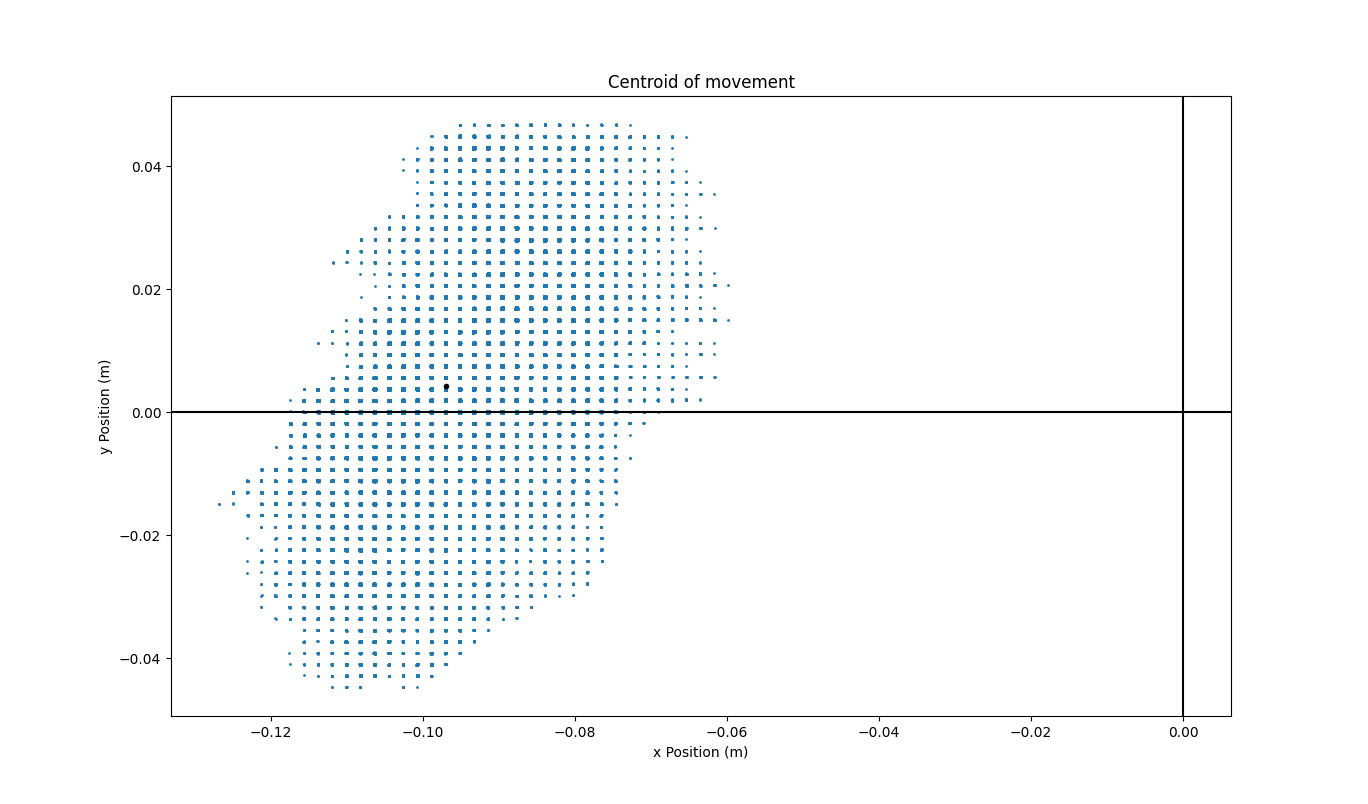
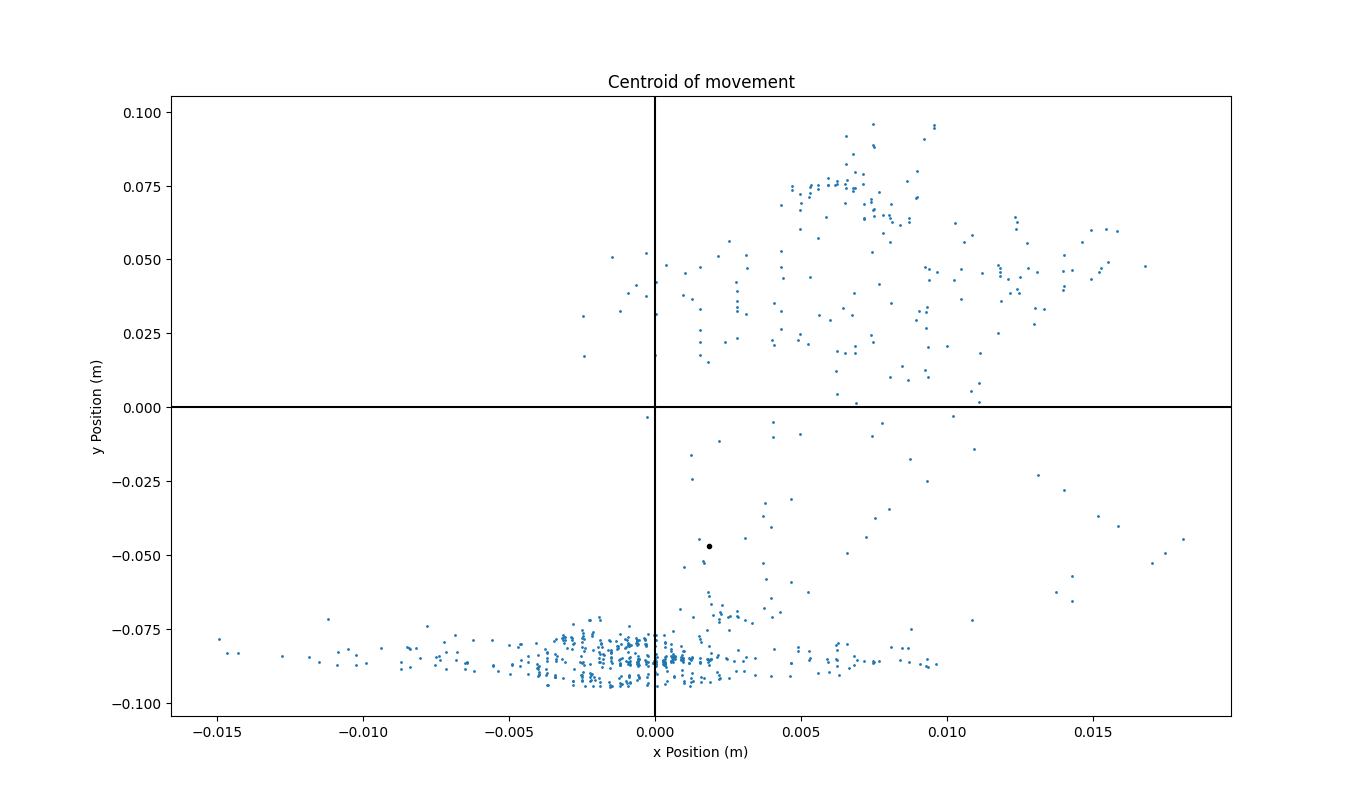
fix centroid

diff --git a/movement_metrics.py b/movement_metrics.py
@@ -178,15 +178,11 @@ def PlotCentroid(data, keypoints):
         
         selected = np_vals[:,:,start_iter]
         selected_vals.append(selected)
-    
+    #print(np.array(selected_vals).shape)
     selected_vals = np.stack(selected_vals, axis=2)
+    #print(selected_vals.shape)
     np_means_avg = np.mean(selected_vals, axis=2)
-    
-    z_x = np.abs(stats.zscore(np_means_avg[:,0]))
-    z_y = np.abs(stats.zscore(np_means_avg[:,1]))
-    select = [(a < 3) and (b < 3) for a, b in zip(z_x, z_y)]
-    vals_cleaned = np_vals[select,:,start_iter]
-
+    #print(np_means_avg.shape)
 
     scale = 1.0
     if video_pix_per_m > 0:
@@ -196,16 +192,27 @@ def PlotCentroid(data, keypoints):
     else:
         plt.xlabel("x Pixel Position")
         plt.ylabel("y Pixel Position")
-    shifted_x = [(x - mid_x) / scale for x in vals_cleaned[:,0]]
-    shifted_y = [(y - mid_y) / scale for y in vals_cleaned[:,1]]
+    x = np_means_avg[:,0]
+    y = np_means_avg[:,1]
+    shifted_x = [(x[i] - mid_x[i]) / scale for i in range(np_means_avg[:,0].shape[0])]
+    shifted_y = [(y[i] - mid_y[i]) / scale for i in range(np_means_avg[:,0].shape[0])]
     
-    plt.scatter(shifted_x, shifted_y, s=1)
+    z_x = np.abs(stats.zscore(shifted_x))
+    z_y = np.abs(stats.zscore(shifted_y))
+    select = [(a < 3) and (b < 3) for a, b in zip(z_x, z_y)]
     
-    total_mean_x = np.mean(shifted_x)
-    total_mean_y = np.mean(shifted_y)
+    cleaned_shifted_x = np.array(shifted_x)[select]
+    cleaned_shifted_y = np.array(shifted_y)[select]
+    
+    plt.scatter(cleaned_shifted_x, cleaned_shifted_y, s=1)
+    
+    total_mean_x = np.mean(cleaned_shifted_x)
+    total_mean_y = np.mean(cleaned_shifted_y)
     plt.plot([total_mean_x], [total_mean_y], marker="o", markersize=3, markeredgecolor='black', markerfacecolor="black")
 
     plt.title("Centroid of movement")
+    #plt.xlim([-1280/ (scale), 1280/ (scale)])
+    #plt.ylim([-720 / (scale), 720 / (scale)])
     plt.axhline(0, color='black')
     plt.axvline(0, color='black')
     figure = plt.gcf()
